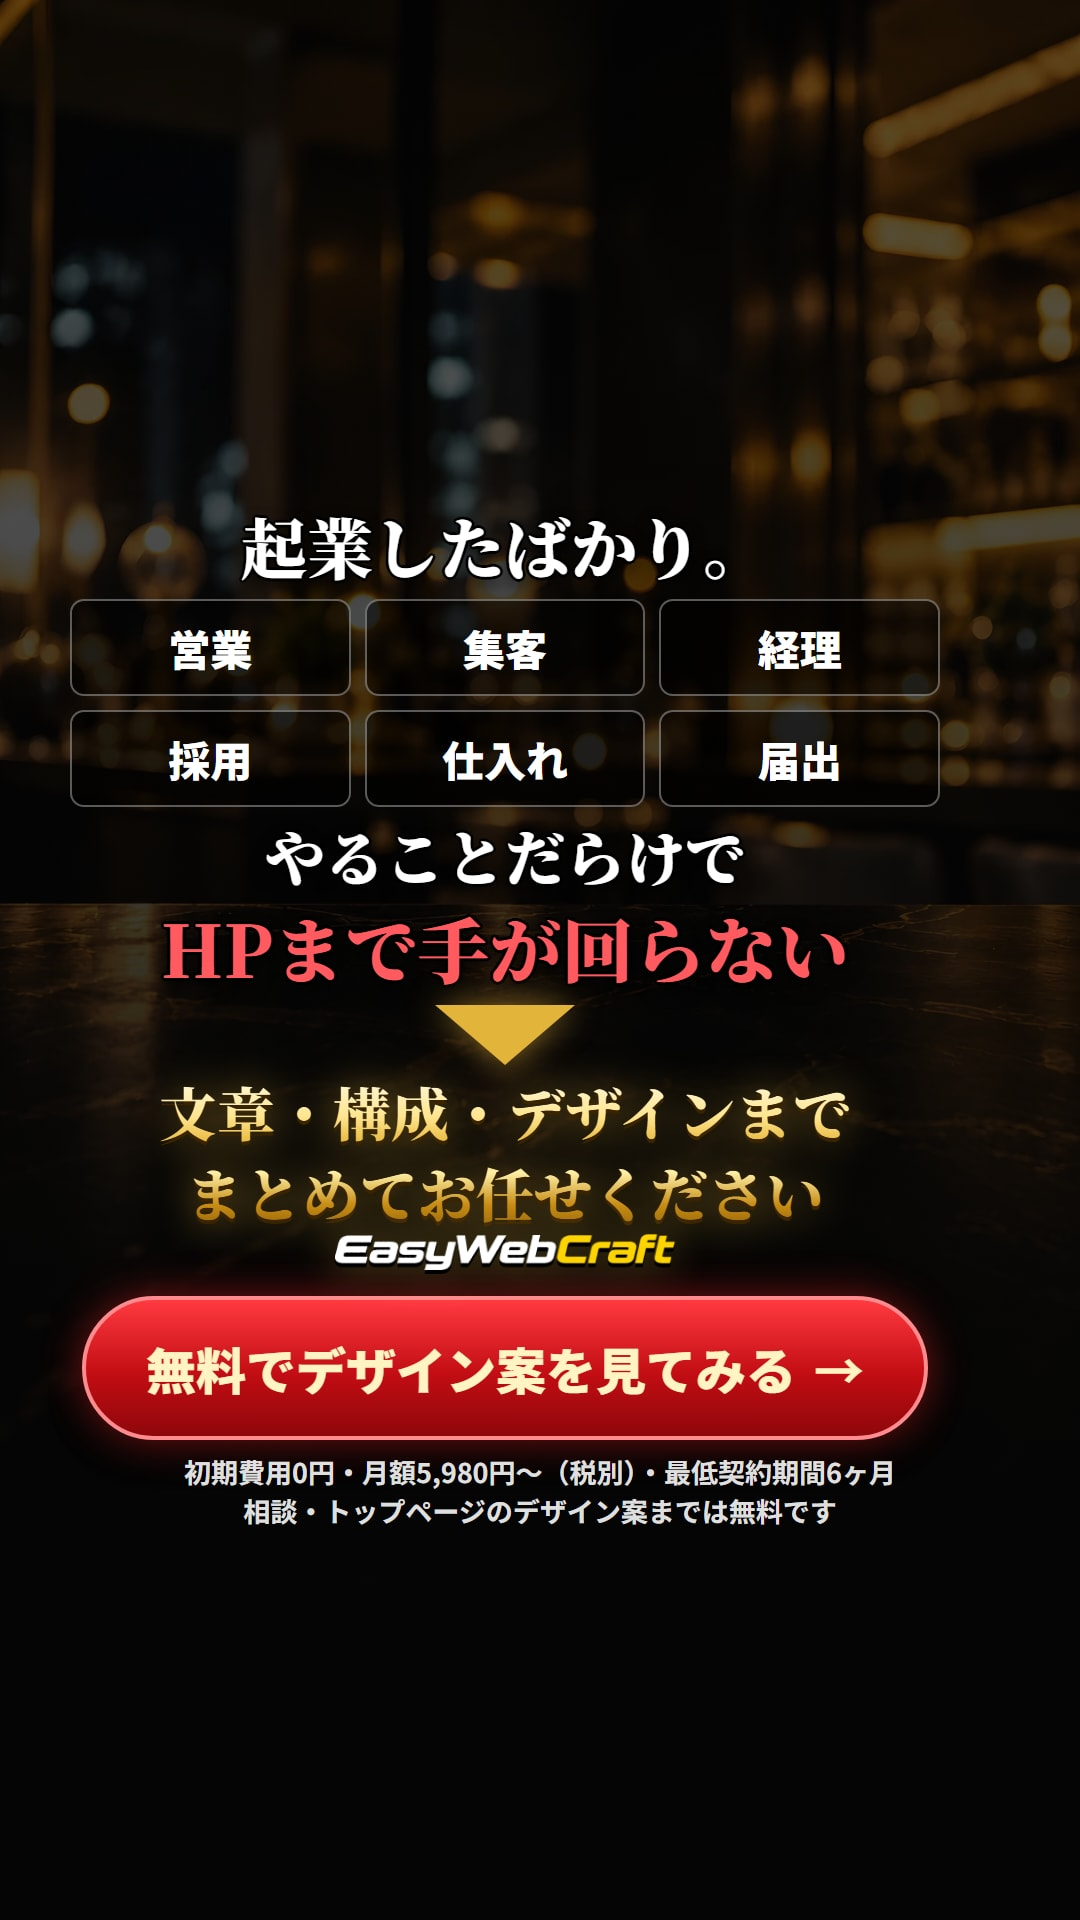
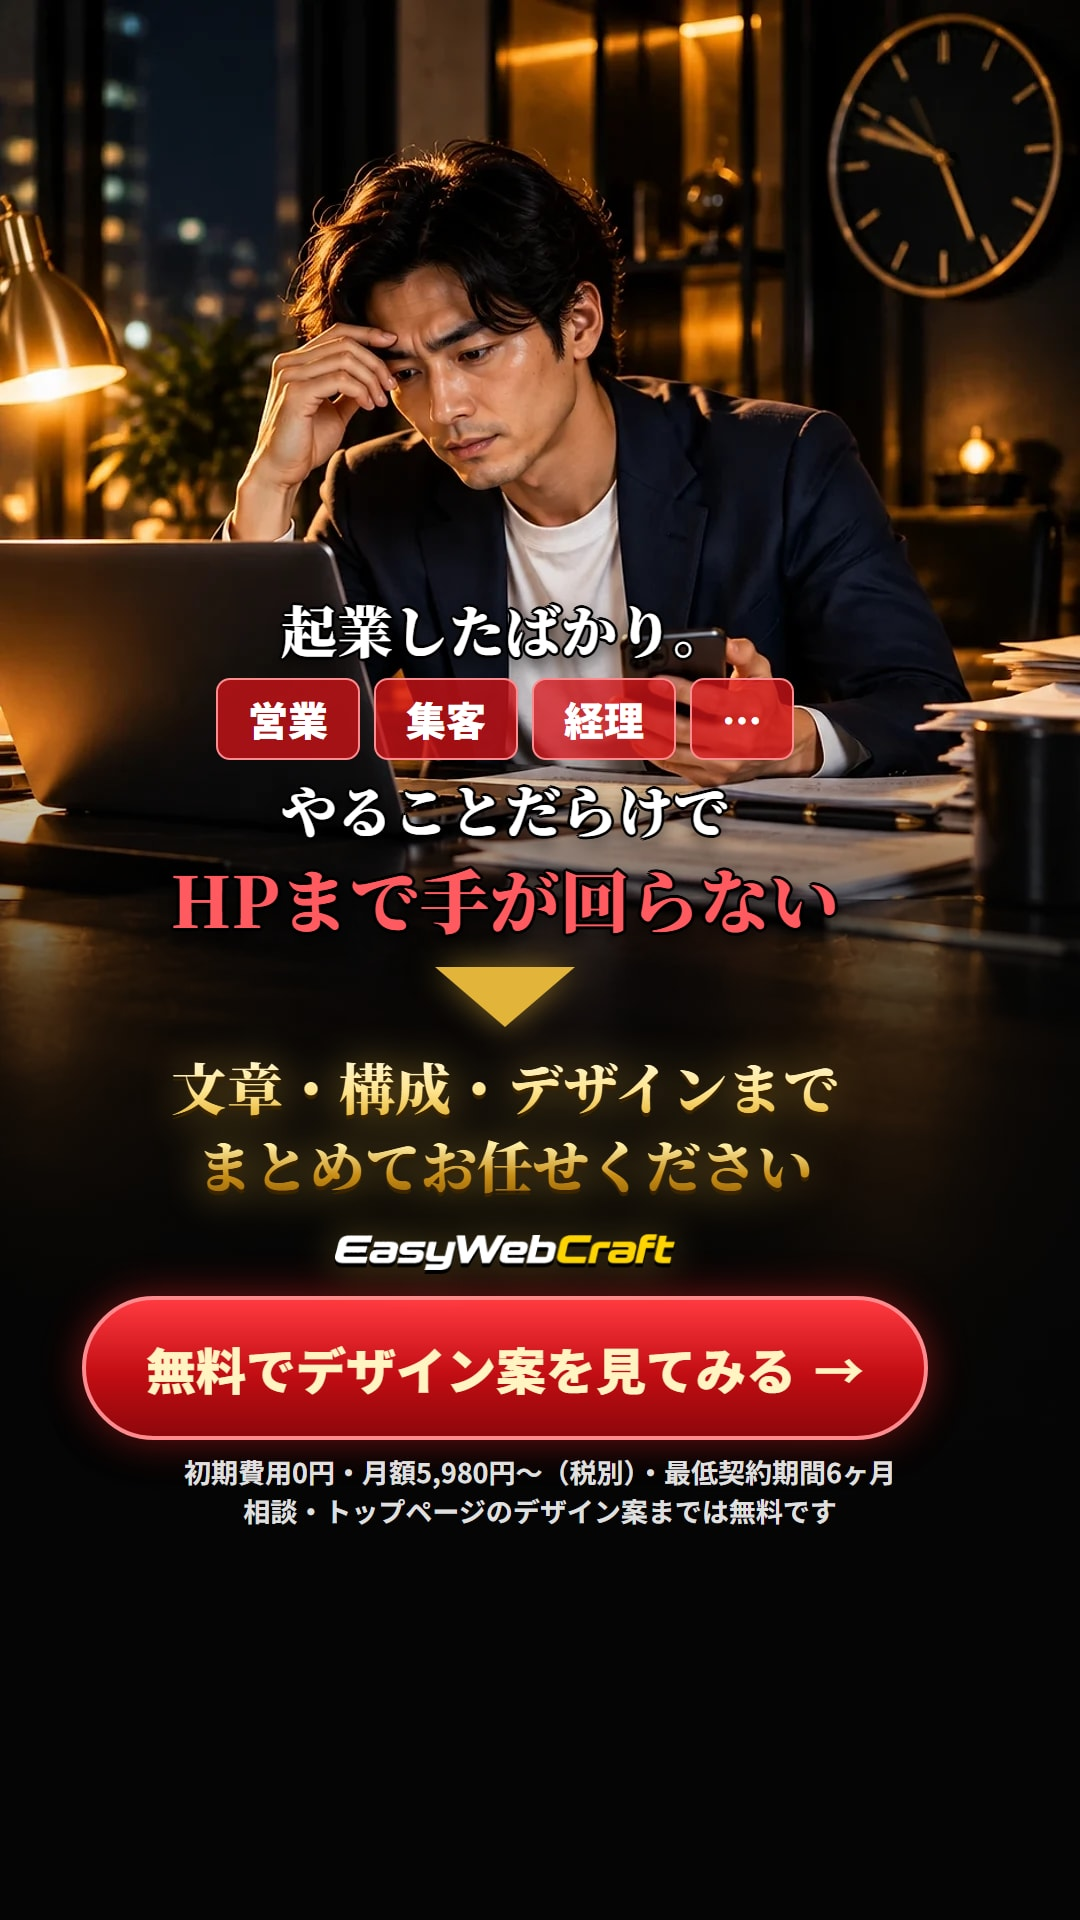
C5に忙しい経営者の写真を入れる
Claude-Session: https://claude.ai/code/session_01G65TiHfa1BUco43NvNDLJF

diff --git a/challenge/index.html b/challenge/index.html
@@ -38,7 +38,7 @@ code{background:var(--bg); padding:0 5px; border-radius:4px; font-size:.88em; wo
   <header>
     <h1>挑戦LP向け TikTok広告画像 6案</h1>
     <p class="lead">LP（黒×金）と同じ背景・色・言葉で作った縦長画像です。広告から開いたときに、LPと同じ世界観がそのまま続くようにしています。</p>
-    <div class="spec"><span>1080×1920（9:16）</span><span>文字はTikTokのUIがかぶらない範囲</span><span>税別・最低契約期間・無料の範囲の注記入り</span><span>C1・C4は顔出し版</span></div>
+    <div class="spec"><span>1080×1920（9:16）</span><span>文字はTikTokのUIがかぶらない範囲</span><span>税別・最低契約期間・無料の範囲の注記入り</span><span>C1・C4・C5は顔出し版</span></div>
   </header>
 
   <div class="grid">
@@ -46,7 +46,7 @@ code{background:var(--bg); padding:0 5px; border-radius:4px; font-size:.88em; wo
     <div class="card"><img src="jpg/c2.jpg?v=2" alt="こんなに安くて本当にちゃんとしたHPができるの？"><div class="no"><b>C2</b>安すぎて不安？</div><span class="tgt">価格に不安がある人</span><span class="star">主力候補</span><p class="cap">「安すぎて不安…」そう思うのは当然です。だから、契約する前にあなたの事業専用のHPデザイン案を無料で作ります。</p></div>
     <div class="card"><img src="jpg/c3.jpg?v=2" alt="起業した。でも、どこに頼めばいい？"><div class="no"><b>C3</b>どこに頼めばいい？</div><span class="tgt">依頼先で迷っている人</span><span class="star">新規</span><p class="cap">制作会社？フリーランス？自分で作る？迷っているなら、まずデザインを見て決めてください。デザイン案は0円です。</p></div>
     <div class="card"><img src="jpg/c4.jpg?v=2" alt="事業は決まった。でも、ホームページは何から始めればいい？"><div class="no"><b>C4</b>何から始めれば？</div><span class="tgt">HPの知識がない人</span><span class="star">顔出し</span><p class="cap">何を載せる？文章は？写真は？制作会社は？何も決まってなくてOK。考えるところからお任せください。</p></div>
-    <div class="card"><img src="jpg/c5.jpg?v=2" alt="起業したばかり。やることだらけでHPまで手が回らない"><div class="no"><b>C5</b>手が回らない</div><span class="tgt">本業が忙しい人</span><span class="star">人物写真は差し替え予定</span><p class="cap">営業、集客、経理…やることだらけの起業直後。文章・構成・デザインまで、まとめてお任せください。</p></div>
+    <div class="card"><img src="jpg/c5.jpg?v=3" alt="起業したばかり。やることだらけでHPまで手が回らない"><div class="no"><b>C5</b>手が回らない</div><span class="tgt">本業が忙しい人</span><span class="star">顔出し</span><p class="cap">営業、集客、経理…やることだらけの起業直後。文章・構成・デザインまで、まとめてお任せください。</p></div>
     <div class="card"><img src="jpg/c6.jpg?v=2" alt="起業したばかりだから、HPに大金はかけられない"><div class="no"><b>C6</b>安心3点セット</div><span class="tgt">比較検討中の人（リターゲティング向き）</span><p class="cap">初期費用0円・デザイン案0円・月額5,980円〜（税別）。7ヶ月目からいつでも解約OK。</p></div>
   </div>
 

diff --git a/challenge/ads.html b/challenge/ads.html
@@ -118,6 +118,10 @@ body{width:1080px; font-family:"Noto Sans JP",sans-serif; color:#fff; background
 #c2 .offer .p b{font-size:170px}
 #c1 .in{top:500px}
 #c3 .offer{padding:14px 34px} #c3 .offer .p b{font-size:140px} #c3 .serif.gold{white-space:nowrap}
+.ad.busy::before{background:url('img/man-busy.webp') center top/cover; opacity:1}
+.ad.busy::after{background:linear-gradient(180deg,rgba(5,5,5,0) 0%,rgba(5,5,5,0) 38%,rgba(5,5,5,.7) 52%,rgba(5,5,5,.9) 70%,#050505 100%)}
+#c5 .todo{grid-template-columns:repeat(4,auto); justify-content:center; gap:14px}
+#c5 .todo span{padding:10px 30px; font-size:40px; background:rgba(215,20,26,.75); border-color:#ff8b8e}
 </style>
 </head>
 <body>
@@ -201,18 +205,19 @@ body{width:1080px; font-family:"Noto Sans JP",sans-serif; color:#fff; background
 </section>
 
 <!-- C5 本業が忙しくて手が回らない -->
-<section class="ad" id="c5">
+<section class="ad busy" id="c5">
   <div class="in">
-    <p class="serif outline" style="font-size:66px; line-height:1.4">起業したばかり。</p>
-    <div class="g30"></div>
-    <div class="todo"><span>営業</span><span>集客</span><span>経理</span><span>採用</span><span>仕入れ</span><span>届出</span></div>
-    <div class="g30"></div>
-    <p class="serif outline" style="font-size:60px; line-height:1.4">やることだらけで<br><span class="red" style="font-size:1.2em">HPまで手が回らない</span></p>
-    <div class="g30"></div>
-    <div class="arrow"></div>
-    <div class="g30"></div>
-    <p class="serif gold" style="font-size:58px; line-height:1.4">文章・構成・デザインまで<br>まとめてお任せください</p>
     <div class="sp"></div>
+    <p class="serif outline" style="font-size:56px; line-height:1.4">起業したばかり。</p>
+    <div class="g10"></div>
+    <div class="todo"><span>営業</span><span>集客</span><span>経理</span><span>…</span></div>
+    <div class="g10"></div>
+    <p class="serif outline" style="font-size:56px; line-height:1.4">やることだらけで<br><span class="red" style="font-size:1.25em">HPまで手が回らない</span></p>
+    <div class="g20"></div>
+    <div class="arrow"></div>
+    <div class="g20"></div>
+    <p class="serif gold" style="font-size:56px; line-height:1.4">文章・構成・デザインまで<br>まとめてお任せください</p>
+    <div class="g30"></div>
     <img class="logo blogo" src="img/logo-fv.webp" alt="EasyWebCraft">
     <p class="cta">無料でデザイン案を見てみる</p>
   </div>
